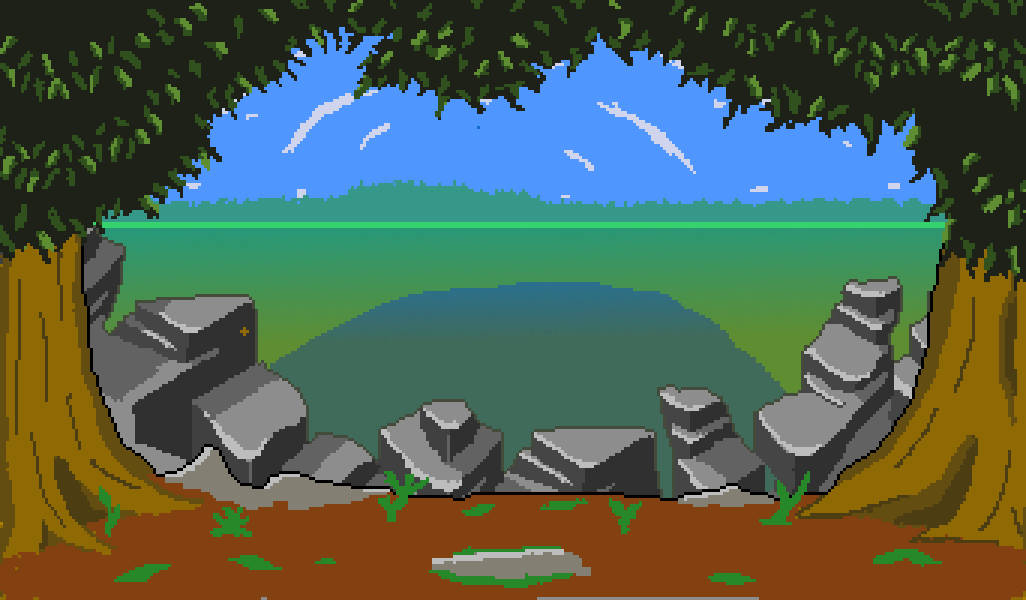
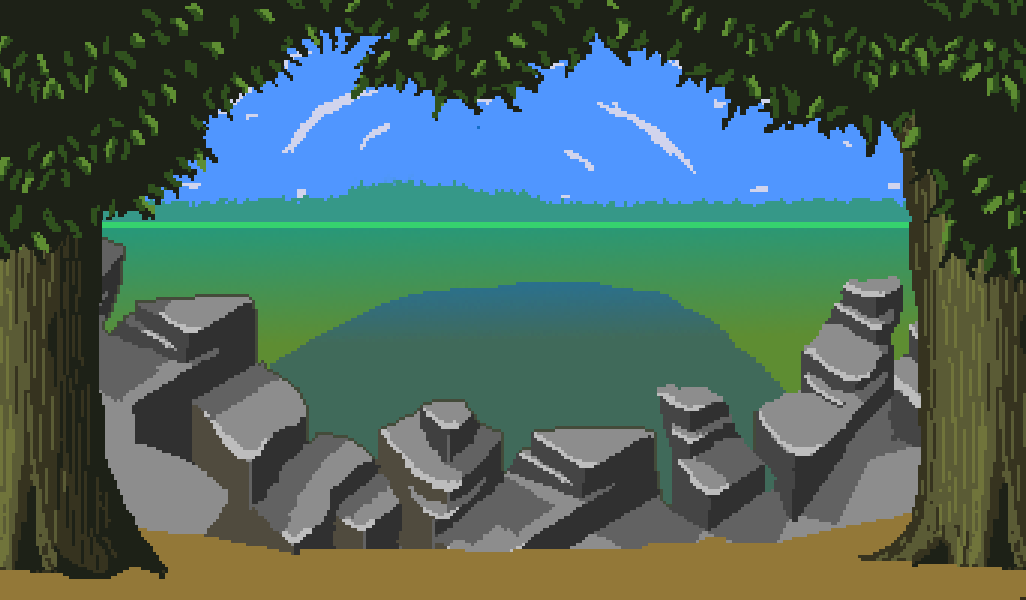
Adicionar arte do novo tileset, colocar as images da cutscene, alterei o background e o background do boss, e alterei os nomes dos arquivos do main menu e options menu(tanto o arquivo quanto no arquivo Gamedata.h)

diff --git a/include/GameData.h b/include/GameData.h
@@ -5,7 +5,7 @@
 #define LOSE_BACKGROUND "assets/img/End/GameOver_00.png"
 #define CREDIT_TEXT "assets/map/Credits.txt"
 
-#define MAINMENU_BACKGROUND "assets/img/Menu/main_menu_v2.png"
+#define MAINMENU_BACKGROUND "assets/img/Menu/main_menu.png"
 #define MAINMENU_PLAY_BUTTON_NOTPRESSED "assets/img/Menu/play_button_notpressed.png"
 #define MAINMENU_PLAY_BUTTON_PRESSED "assets/img/Menu/play_button_pressed.png"
 #define MAINMENU_EXIT_BUTTON_NOTPRESSED "assets/img/Menu/exit_button_notpressed.png"
@@ -17,7 +17,7 @@
 #define MAINMENU_BACKGROUNDMUSIC_INTRO "assets/audio/Musics/TemaMenuIntro.ogg"
 #define MAINMENU_BACKGROUNDMUSIC_LOOP "assets/audio/Musics/TemaMenuLoop.ogg"
 
-#define OPTIONS_BACKGROUND "assets/img/Menu/options_menu_v2.png"
+#define OPTIONS_BACKGROUND "assets/img/Menu/options_menu.png"
 #define OPTIONS_PANEL "assets/img/Menu/options_panel.png"
 #define OPTIONS_BACK_BUTTON_NOTPRESSED "assets/img/Menu/back_button_notpressed.png"
 #define OPTIONS_BACK_BUTTON_PRESSED "assets/img/Menu/back_button_pressed.png"
